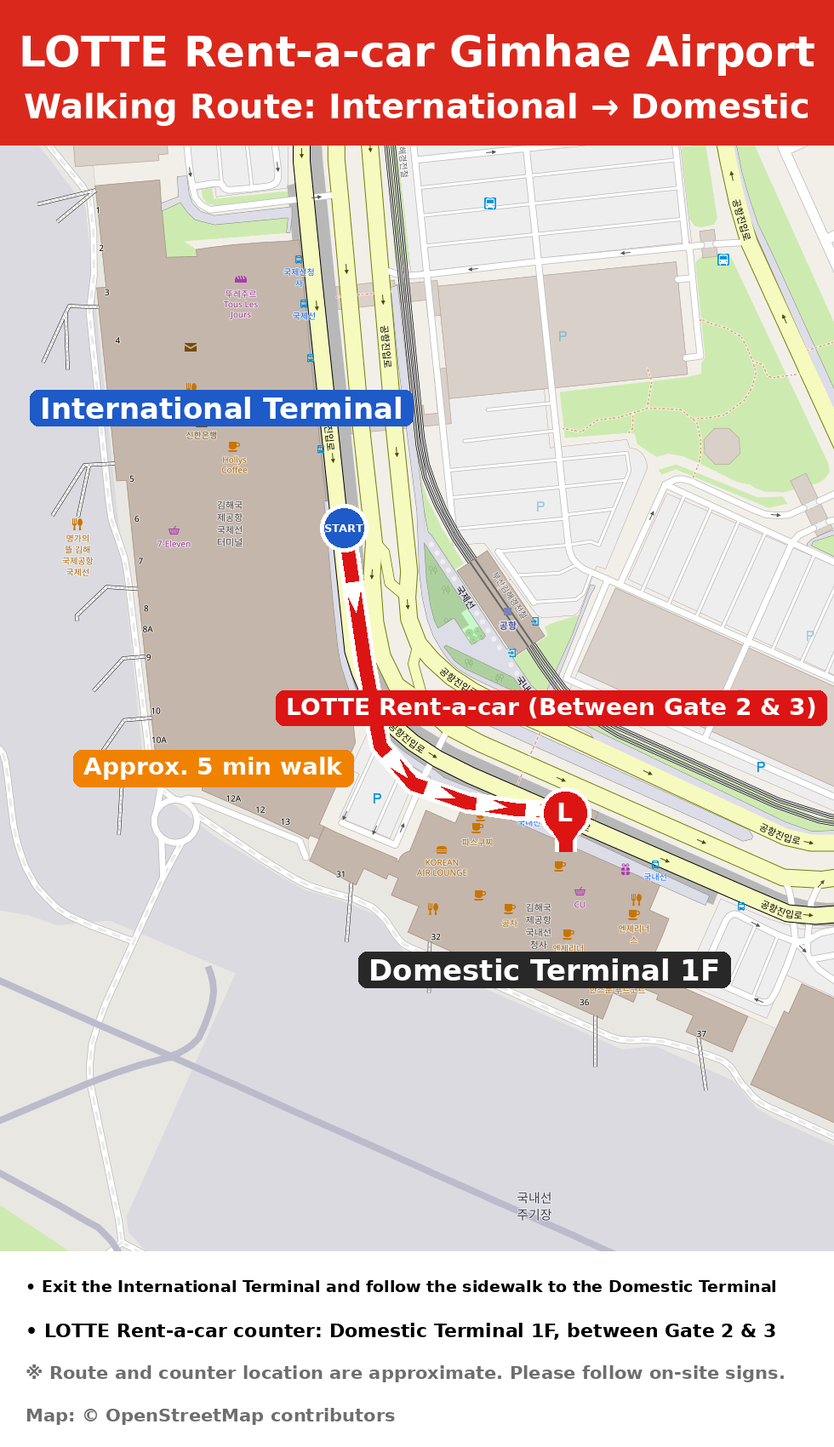
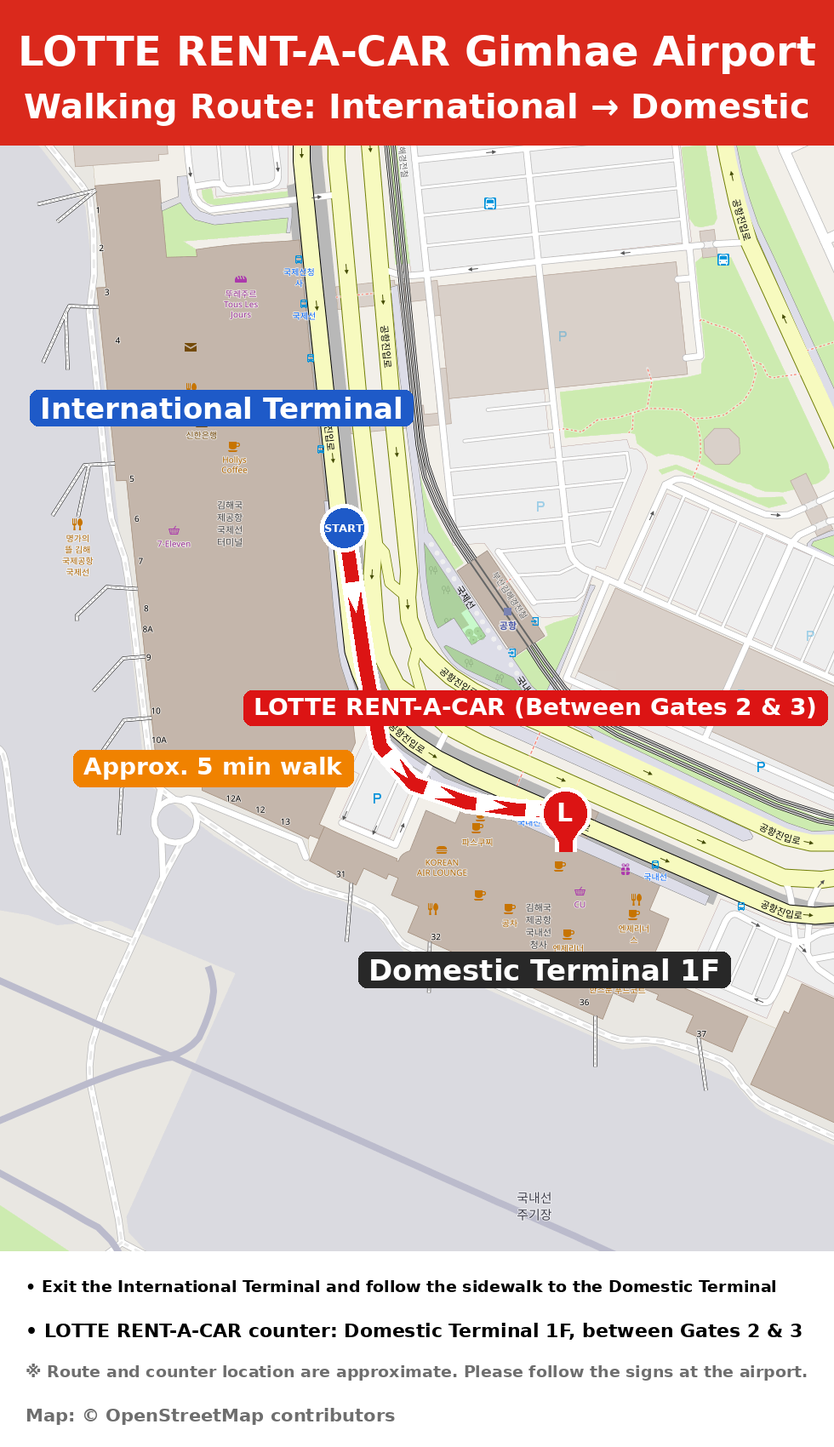
Native-level copy review for all 8 languages; update map labels

diff --git a/th/index.html b/th/index.html
@@ -2,11 +2,11 @@
 <header class="small"><a href="../"><img src="../logo.png" alt="LOTTE rent-a-car GIMHAE AIRPORT"></a></header>
 <nav class="lang"><a href="../en/">English</a><a href="../ko/">한국어</a><a href="../ja/">日本語</a><a href="../zh-CN/">简体中文</a><a href="../zh-TW/">繁體中文</a><a href="../th/" class=on>ภาษาไทย</a><a href="../vi/">Tiếng Việt</a><a href="../ms/">Bahasa Melayu</a></nav><main>
 <h1 class="title">คู่มือรับรถ ท่าอากาศยานกิมแฮ</h1><div class="sub">สาขาท่าอากาศยานกิมแฮ · ข้อมูลก่อนเช่ารถ</div>
-<div class="map"><img src="../map-th.png" alt="เส้นทางเดินจากอาคารระหว่างประเทศไปยังเคาน์เตอร์"></div>
-<section class="card"><h2><span class="num">1</span>จุดรับรถ</h2><p><b>อาคารผู้โดยสารภายในประเทศ ชั้น 1 (ขาเข้า)</b><br>เคาน์เตอร์อยู่ระหว่าง<b>ประตู 2 และประตู 3</b><br><b>เดินประมาณ 5 นาที</b>จากอาคารผู้โดยสารระหว่างประเทศ</p></section>
-<section class="card"><h2><span class="num">2</span>เอกสารที่ต้องนำมา (ฉบับจริงเท่านั้น)</h2><ul><li><b>หนังสือเดินทาง</b> – สำหรับยืนยันตัวตน</li><li><b>ใบอนุญาตขับรถระหว่างประเทศ (ใบขับขี่สากล/IDP) ที่ยังไม่หมดอายุ</b> – โปรดตรวจสอบวันหมดอายุและประเภทรถ:<ul><li>ประเภท B: รถที่มีที่นั่งผู้โดยสารไม่เกิน 8 ที่</li><li>ประเภท D: รถที่มีที่นั่งผู้โดยสารมากกว่า 8 ที่</li></ul></li></ul></section>
-<section class="card"><h2><span class="num">3</span>ก่อนเดินทางมาถึง</h2><p>โปรดแจ้ง<b>หมายเลขเที่ยวบินขาเข้า</b> (เช่น KE1234) โดยตอบกลับอีเมลของเรา</p></section>
-<section class="card fast"><h2>⚡ บริการรับรถด่วน</h2><p>ส่งสำเนาสแกน<b>หนังสือเดินทางและใบขับขี่สากล</b>มาล่วงหน้า เพื่อการรับรถที่รวดเร็วและสะดวก!</p></section>
+<div class="map"><img src="../map-th.png" alt="เส้นทางเดินจากอาคารผู้โดยสารระหว่างประเทศไปยังเคาน์เตอร์"></div>
+<section class="card"><h2><span class="num">1</span>จุดรับรถ</h2><p><b>อาคารผู้โดยสารภายในประเทศ ชั้น 1 (ชั้นผู้โดยสารขาเข้า)</b><br>เคาน์เตอร์อยู่ระหว่าง<b>ประตู 2 และประตู 3</b><br><b>เดินประมาณ 5 นาที</b>จากอาคารผู้โดยสารระหว่างประเทศ</p></section>
+<section class="card"><h2><span class="num">2</span>เอกสารที่ต้องนำมา (ฉบับจริงเท่านั้น)</h2><ul><li><b>หนังสือเดินทาง</b> – สำหรับยืนยันตัวตน</li><li><b>ใบขับขี่สากล (IDP) ที่ยังไม่หมดอายุ</b> – โปรดตรวจสอบวันหมดอายุและประเภทรถที่ได้รับอนุญาตให้ขับ:<ul><li>ประเภท B: รถที่มีที่นั่งไม่เกิน 8 ที่ (ไม่รวมที่นั่งคนขับ)</li><li>ประเภท D: รถที่มีที่นั่งมากกว่า 8 ที่ (ไม่รวมที่นั่งคนขับ)</li></ul></li></ul></section>
+<section class="card"><h2><span class="num">3</span>ก่อนเดินทางมาถึง</h2><p>โปรดตอบกลับอีเมลนี้เพื่อแจ้ง<b>หมายเลขเที่ยวบินขาเข้า</b> (เช่น KE1234)</p></section>
+<section class="card fast"><h2>⚡ บริการรับรถแบบรวดเร็ว</h2><p>ส่งสำเนาสแกน<b>หนังสือเดินทางและใบขับขี่สากล</b>มาล่วงหน้า เพื่อการรับรถที่รวดเร็วและสะดวก!</p></section>
 <section class="card contact"><div class="ct">สอบถาม: สาขาท่าอากาศยานกิมแฮ</div><a class="btn" href="mailto:534046@lotte.net?subject=LOTTE%20RENT-A-CAR%20Reservation%20Inquiry">✉ 534046@lotte.net</a>
 <a class="btn sub2" href="https://lotte-rentcar-chat.onrender.com/chat?lang=th" target="_blank" rel="noopener">💬 แชทสอบถาม</a><div class="hours">เวลาให้บริการ 08:00–21:00 น. (เวลาเกาหลี)</div></section>
-</main><footer><div class="fm">อีเมลสาขาท่าอากาศยานกิมแฮ: <a href="mailto:534046@lotte.net">534046@lotte.net</a></div>แผนที่แสดงตำแหน่งโดยประมาณ<br>Map data © OpenStreetMap contributors</footer></div></body></html>
+</main><footer><div class="fm">อีเมลสาขาท่าอากาศยานกิมแฮ: <a href="mailto:534046@lotte.net">534046@lotte.net</a></div>แผนที่ใช้เพื่อประกอบเท่านั้น กรุณาสังเกตป้ายบอกทางในสนามบิน<br>Map data © OpenStreetMap contributors</footer></div></body></html>

diff --git a/ja/index.html b/ja/index.html
@@ -1,12 +1,12 @@
-<!doctype html><html lang="ja"><head><meta charset="utf-8"><meta name="viewport" content="width=device-width,viewport-fit=cover,initial-scale=1"><meta name="theme-color" content="#da291c"><title>金海空港 ピックアップ案内 · LOTTE RENT-A-CAR</title><link rel="preconnect" href="https://cdn.jsdelivr.net"><link rel="stylesheet" href="https://cdn.jsdelivr.net/gh/orioncactus/pretendard@v1.3.9/dist/web/variable/pretendardvariable-dynamic-subset.min.css"><link rel="stylesheet" href="https://fonts.googleapis.com/css2?family=Noto+Sans+SC:wght@400;700&family=Noto+Sans+TC:wght@400;700&family=Noto+Sans+Thai:wght@400;700&display=swap"><link rel="stylesheet" href="../style.css?v=3"></head><body><div class="shell">
+<!doctype html><html lang="ja"><head><meta charset="utf-8"><meta name="viewport" content="width=device-width,viewport-fit=cover,initial-scale=1"><meta name="theme-color" content="#da291c"><title>金海空港 レンタカー受取のご案内 · LOTTE RENT-A-CAR</title><link rel="preconnect" href="https://cdn.jsdelivr.net"><link rel="stylesheet" href="https://cdn.jsdelivr.net/gh/orioncactus/pretendard@v1.3.9/dist/web/variable/pretendardvariable-dynamic-subset.min.css"><link rel="stylesheet" href="https://fonts.googleapis.com/css2?family=Noto+Sans+SC:wght@400;700&family=Noto+Sans+TC:wght@400;700&family=Noto+Sans+Thai:wght@400;700&display=swap"><link rel="stylesheet" href="../style.css?v=3"></head><body><div class="shell">
 <header class="small"><a href="../"><img src="../logo.png" alt="LOTTE rent-a-car GIMHAE AIRPORT"></a></header>
 <nav class="lang"><a href="../en/">English</a><a href="../ko/">한국어</a><a href="../ja/" class=on>日本語</a><a href="../zh-CN/">简体中文</a><a href="../zh-TW/">繁體中文</a><a href="../th/">ภาษาไทย</a><a href="../vi/">Tiếng Việt</a><a href="../ms/">Bahasa Melayu</a></nav><main>
-<h1 class="title">金海空港 ピックアップ案内</h1><div class="sub">金海空港営業所 · ご利用前のご案内</div>
+<h1 class="title">金海空港 レンタカー受取のご案内</h1><div class="sub">金海空港営業所 · ご利用前のご案内</div>
 <div class="map"><img src="../map-ja.png" alt="国際線ターミナルからカウンターまでの徒歩ルート"></div>
-<section class="card"><h2><span class="num">1</span>受取場所</h2><p><b>国内線ターミナル1階（到着ロビー）</b><br>カウンターは<b>2番ゲートと3番ゲートの間</b>にございます。<br>国際線ターミナルから<b>徒歩約5分</b>です。</p></section>
-<section class="card"><h2><span class="num">2</span>お持ちいただくもの（原本のみ）</h2><ul><li><b>パスポート</b> – 本人確認用</li><li><b>有効な国際運転免許証（IDP）</b> – 有効期限と車種区分をご確認ください：<ul><li>B区分：運転席を除き8人乗り以下の車両</li><li>D区分：運転席を除き8人乗りを超える車両</li></ul></li></ul></section>
-<section class="card"><h2><span class="num">3</span>ご到着前に</h2><p>メールへのご返信で<b>到着便名</b>（例：KE1234）をお知らせください。</p></section>
-<section class="card fast"><h2>⚡ スピード貸渡サービス</h2><p><b>パスポートと国際運転免許証</b>のスキャンデータを事前にお送りいただくと、当日の手続きがスムーズになります。</p></section>
+<section class="card"><h2><span class="num">1</span>お受け取り場所</h2><p><b>国内線ターミナル1階（到着ロビー）</b><br>カウンターは<b>2番ゲートと3番ゲートの間</b>にあります。<br>国際線ターミナルから<b>徒歩約5分</b>です。</p></section>
+<section class="card"><h2><span class="num">2</span>お持ちいただくもの（原本のみ）</h2><ul><li><b>パスポート</b> – 本人確認用</li><li><b>有効な国際運転免許証（IDP）</b> – 有効期限と車種区分をご確認ください：<ul><li>B区分：運転席を除く座席数が8席以下の車両</li><li>D区分：運転席を除く座席数が8席を超える車両</li></ul></li></ul></section>
+<section class="card"><h2><span class="num">3</span>ご到着前に</h2><p>本メールにご返信のうえ、<b>到着便名</b>（例：KE1234）をお知らせください。</p></section>
+<section class="card fast"><h2>⚡ スピード受付サービス</h2><p><b>パスポートと国際運転免許証</b>のスキャンデータを事前にお送りいただくと、当日の手続きがスムーズになります。</p></section>
 <section class="card contact"><div class="ct">お問い合わせ：金海空港営業所</div><a class="btn" href="mailto:534046@lotte.net?subject=LOTTE%20RENT-A-CAR%20Reservation%20Inquiry">✉ 534046@lotte.net</a>
 <a class="btn sub2" href="https://lotte-rentcar-chat.onrender.com/chat?lang=ja" target="_blank" rel="noopener">💬 チャットで相談</a><div class="hours">受付時間 8:00〜21:00（韓国時間）</div></section>
-</main><footer><div class="fm">金海空港営業所 メール: <a href="mailto:534046@lotte.net">534046@lotte.net</a></div>地図はおおよその位置で、カウンター位置は目安です。<br>Map data © OpenStreetMap contributors</footer></div></body></html>
+</main><footer><div class="fm">金海空港営業所 メール: <a href="mailto:534046@lotte.net">534046@lotte.net</a></div>地図は目安です。現地の案内表示もあわせてご確認ください。<br>Map data © OpenStreetMap contributors</footer></div></body></html>

diff --git a/vi/index.html b/vi/index.html
@@ -1,12 +1,12 @@
 <!doctype html><html lang="vi"><head><meta charset="utf-8"><meta name="viewport" content="width=device-width,viewport-fit=cover,initial-scale=1"><meta name="theme-color" content="#da291c"><title>Hướng dẫn nhận xe tại Sân bay Gimhae · LOTTE RENT-A-CAR</title><link rel="preconnect" href="https://cdn.jsdelivr.net"><link rel="stylesheet" href="https://cdn.jsdelivr.net/gh/orioncactus/pretendard@v1.3.9/dist/web/variable/pretendardvariable-dynamic-subset.min.css"><link rel="stylesheet" href="https://fonts.googleapis.com/css2?family=Noto+Sans+SC:wght@400;700&family=Noto+Sans+TC:wght@400;700&family=Noto+Sans+Thai:wght@400;700&display=swap"><link rel="stylesheet" href="../style.css?v=3"></head><body><div class="shell">
 <header class="small"><a href="../"><img src="../logo.png" alt="LOTTE rent-a-car GIMHAE AIRPORT"></a></header>
 <nav class="lang"><a href="../en/">English</a><a href="../ko/">한국어</a><a href="../ja/">日本語</a><a href="../zh-CN/">简体中文</a><a href="../zh-TW/">繁體中文</a><a href="../th/">ภาษาไทย</a><a href="../vi/" class=on>Tiếng Việt</a><a href="../ms/">Bahasa Melayu</a></nav><main>
-<h1 class="title">Hướng dẫn nhận xe tại Sân bay Gimhae</h1><div class="sub">Văn phòng Sân bay Gimhae · Thông tin trước khi thuê</div>
+<h1 class="title">Hướng dẫn nhận xe tại Sân bay Gimhae</h1><div class="sub">Chi nhánh Sân bay Gimhae · Thông tin trước khi thuê xe</div>
 <div class="map"><img src="../map-vi.png" alt="Lộ trình đi bộ từ Nhà ga Quốc tế đến quầy"></div>
-<section class="card"><h2><span class="num">1</span>Địa điểm nhận xe</h2><p><b>Nhà ga Quốc nội, Tầng 1 (Khu đến)</b><br>Quầy nằm giữa <b>Cửa 2 và Cửa 3</b>.<br>Cách Nhà ga Quốc tế khoảng <b>5 phút đi bộ</b>.</p></section>
-<section class="card"><h2><span class="num">2</span>Giấy tờ cần mang (chỉ bản gốc)</h2><ul><li><b>Hộ chiếu</b> – để xác minh danh tính</li><li><b>Giấy phép lái xe quốc tế (IDP) còn hiệu lực</b> – vui lòng kiểm tra hạn sử dụng và hạng xe:<ul><li>Hạng B: xe có tối đa 8 ghế hành khách</li><li>Hạng D: xe có hơn 8 ghế hành khách</li></ul></li></ul></section>
-<section class="card"><h2><span class="num">3</span>Trước khi đến</h2><p>Vui lòng cho chúng tôi biết <b>số hiệu chuyến bay đến</b> (ví dụ: KE1234) bằng cách trả lời email.</p></section>
-<section class="card fast"><h2>⚡ DỊCH VỤ NHẬN XE NHANH</h2><p>Gửi trước bản scan <b>Hộ chiếu &amp; Giấy phép lái xe quốc tế</b> để nhận xe nhanh chóng và dễ dàng!</p></section>
-<section class="card contact"><div class="ct">Liên hệ: Văn phòng Sân bay Gimhae</div><a class="btn" href="mailto:534046@lotte.net?subject=LOTTE%20RENT-A-CAR%20Reservation%20Inquiry">✉ 534046@lotte.net</a>
+<section class="card"><h2><span class="num">1</span>Địa điểm nhận xe</h2><p><b>Nhà ga Quốc nội, Tầng 1 (Sảnh đến)</b><br>Quầy nằm giữa <b>Cửa 2 và Cửa 3</b>.<br>Cách Nhà ga Quốc tế khoảng <b>5 phút đi bộ</b>.</p></section>
+<section class="card"><h2><span class="num">2</span>Giấy tờ cần mang (chỉ bản gốc)</h2><ul><li><b>Hộ chiếu</b> – để xác minh danh tính</li><li><b>Giấy phép lái xe quốc tế (IDP) còn hiệu lực</b> – vui lòng kiểm tra thời hạn hiệu lực và hạng xe được phép lái:<ul><li>Hạng B: xe có tối đa 8 chỗ ngồi (không tính ghế lái)</li><li>Hạng D: xe có trên 8 chỗ ngồi (không tính ghế lái)</li></ul></li></ul></section>
+<section class="card"><h2><span class="num">3</span>Trước khi đến</h2><p>Vui lòng phản hồi email này để cho chúng tôi biết <b>số hiệu chuyến bay đến</b> (ví dụ: KE1234).</p></section>
+<section class="card fast"><h2>⚡ Dịch vụ nhận xe nhanh</h2><p>Gửi trước bản scan <b>hộ chiếu và giấy phép lái xe quốc tế</b> để nhận xe nhanh chóng và dễ dàng!</p></section>
+<section class="card contact"><div class="ct">Liên hệ: Chi nhánh Sân bay Gimhae</div><a class="btn" href="mailto:534046@lotte.net?subject=LOTTE%20RENT-A-CAR%20Reservation%20Inquiry">✉ 534046@lotte.net</a>
 <a class="btn sub2" href="https://lotte-rentcar-chat.onrender.com/chat?lang=vi" target="_blank" rel="noopener">💬 Tư vấn qua chat</a><div class="hours">Giờ hỗ trợ: 08:00–21:00 (giờ Hàn Quốc)</div></section>
-</main><footer><div class="fm">Email Văn phòng Sân bay Gimhae: <a href="mailto:534046@lotte.net">534046@lotte.net</a></div>Bản đồ và vị trí quầy chỉ mang tính tham khảo.<br>Map data © OpenStreetMap contributors</footer></div></body></html>
+</main><footer><div class="fm">Email Chi nhánh Sân bay Gimhae: <a href="mailto:534046@lotte.net">534046@lotte.net</a></div>Bản đồ chỉ mang tính tham khảo. Vui lòng đi theo biển chỉ dẫn tại sân bay.<br>Map data © OpenStreetMap contributors</footer></div></body></html>

diff --git a/ms/index.html b/ms/index.html
@@ -1,12 +1,12 @@
 <!doctype html><html lang="ms"><head><meta charset="utf-8"><meta name="viewport" content="width=device-width,viewport-fit=cover,initial-scale=1"><meta name="theme-color" content="#da291c"><title>Panduan Ambil Kereta Lapangan Terbang Gimhae · LOTTE RENT-A-CAR</title><link rel="preconnect" href="https://cdn.jsdelivr.net"><link rel="stylesheet" href="https://cdn.jsdelivr.net/gh/orioncactus/pretendard@v1.3.9/dist/web/variable/pretendardvariable-dynamic-subset.min.css"><link rel="stylesheet" href="https://fonts.googleapis.com/css2?family=Noto+Sans+SC:wght@400;700&family=Noto+Sans+TC:wght@400;700&family=Noto+Sans+Thai:wght@400;700&display=swap"><link rel="stylesheet" href="../style.css?v=3"></head><body><div class="shell">
 <header class="small"><a href="../"><img src="../logo.png" alt="LOTTE rent-a-car GIMHAE AIRPORT"></a></header>
 <nav class="lang"><a href="../en/">English</a><a href="../ko/">한국어</a><a href="../ja/">日本語</a><a href="../zh-CN/">简体中文</a><a href="../zh-TW/">繁體中文</a><a href="../th/">ภาษาไทย</a><a href="../vi/">Tiếng Việt</a><a href="../ms/" class=on>Bahasa Melayu</a></nav><main>
-<h1 class="title">Panduan Ambil Kereta Lapangan Terbang Gimhae</h1><div class="sub">Pejabat Lapangan Terbang Gimhae · Maklumat sebelum sewa</div>
+<h1 class="title">Panduan Ambil Kereta Lapangan Terbang Gimhae</h1><div class="sub">Cawangan Lapangan Terbang Gimhae · Maklumat sebelum sewa</div>
 <div class="map"><img src="../map-ms.png" alt="Laluan berjalan kaki dari Terminal Antarabangsa ke kaunter"></div>
 <section class="card"><h2><span class="num">1</span>Lokasi Ambil Kereta</h2><p><b>Terminal Domestik, Aras 1 (Balai Ketibaan)</b><br>Kaunter kami terletak di antara <b>Pintu 2 dan Pintu 3</b>.<br>Kira-kira <b>5 minit berjalan kaki</b> dari Terminal Antarabangsa.</p></section>
-<section class="card"><h2><span class="num">2</span>Dokumen Dibawa (Asal sahaja)</h2><ul><li><b>Pasport</b> – untuk pengenalan diri</li><li><b>Permit Memandu Antarabangsa (IDP) yang sah</b> – sila semak tarikh luput dan kategori kenderaan:<ul><li>Kategori B: kenderaan sehingga 8 tempat duduk penumpang</li><li>Kategori D: kenderaan lebih daripada 8 tempat duduk penumpang</li></ul></li></ul></section>
+<section class="card"><h2><span class="num">2</span>Dokumen yang Perlu Dibawa (Asal Sahaja)</h2><ul><li><b>Pasport</b> – untuk pengenalan diri</li><li><b>Permit Memandu Antarabangsa (IDP) yang sah</b> – sila semak tarikh luput dan kategori kenderaan:<ul><li>Kategori B: kenderaan dengan tidak lebih daripada 8 tempat duduk (tidak termasuk tempat duduk pemandu)</li><li>Kategori D: kenderaan dengan lebih daripada 8 tempat duduk (tidak termasuk tempat duduk pemandu)</li></ul></li></ul></section>
 <section class="card"><h2><span class="num">3</span>Sebelum Tiba</h2><p>Sila maklumkan <b>nombor penerbangan ketibaan</b> anda (cth. KE1234) dengan membalas e-mel kami.</p></section>
-<section class="card fast"><h2>⚡ PERKHIDMATAN AMBIL PANTAS</h2><p>Hantar salinan imbasan <b>Pasport &amp; Permit Memandu Antarabangsa</b> lebih awal untuk sewaan yang cepat dan mudah!</p></section>
-<section class="card contact"><div class="ct">Pertanyaan: Pejabat Lapangan Terbang Gimhae</div><a class="btn" href="mailto:534046@lotte.net?subject=LOTTE%20RENT-A-CAR%20Reservation%20Inquiry">✉ 534046@lotte.net</a>
+<section class="card fast"><h2>⚡ Perkhidmatan Ambil Kereta Pantas</h2><p>Hantar salinan imbasan <b>pasport dan Permit Memandu Antarabangsa</b> lebih awal untuk urusan ambil kereta yang cepat dan mudah!</p></section>
+<section class="card contact"><div class="ct">Pertanyaan: Cawangan Lapangan Terbang Gimhae</div><a class="btn" href="mailto:534046@lotte.net?subject=LOTTE%20RENT-A-CAR%20Reservation%20Inquiry">✉ 534046@lotte.net</a>
 <a class="btn sub2" href="https://lotte-rentcar-chat.onrender.com/chat?lang=ms" target="_blank" rel="noopener">💬 Sembang dengan Kami</a><div class="hours">Waktu operasi: 08:00–21:00 (waktu Korea)</div></section>
-</main><footer><div class="fm">E-mel Pejabat Lapangan Terbang Gimhae: <a href="mailto:534046@lotte.net">534046@lotte.net</a></div>Peta adalah anggaran sahaja.<br>Map data © OpenStreetMap contributors</footer></div></body></html>
+</main><footer><div class="fm">E-mel Cawangan Lapangan Terbang Gimhae: <a href="mailto:534046@lotte.net">534046@lotte.net</a></div>Peta adalah sebagai rujukan sahaja. Sila ikut papan tanda di lapangan terbang.<br>Map data © OpenStreetMap contributors</footer></div></body></html>

diff --git a/en/index.html b/en/index.html
@@ -1,12 +1,12 @@
 <!doctype html><html lang="en"><head><meta charset="utf-8"><meta name="viewport" content="width=device-width,viewport-fit=cover,initial-scale=1"><meta name="theme-color" content="#da291c"><title>Gimhae Airport Pick-up Guide · LOTTE RENT-A-CAR</title><link rel="preconnect" href="https://cdn.jsdelivr.net"><link rel="stylesheet" href="https://cdn.jsdelivr.net/gh/orioncactus/pretendard@v1.3.9/dist/web/variable/pretendardvariable-dynamic-subset.min.css"><link rel="stylesheet" href="https://fonts.googleapis.com/css2?family=Noto+Sans+SC:wght@400;700&family=Noto+Sans+TC:wght@400;700&family=Noto+Sans+Thai:wght@400;700&display=swap"><link rel="stylesheet" href="../style.css?v=3"></head><body><div class="shell">
 <header class="small"><a href="../"><img src="../logo.png" alt="LOTTE rent-a-car GIMHAE AIRPORT"></a></header>
 <nav class="lang"><a href="../en/" class=on>English</a><a href="../ko/">한국어</a><a href="../ja/">日本語</a><a href="../zh-CN/">简体中文</a><a href="../zh-TW/">繁體中文</a><a href="../th/">ภาษาไทย</a><a href="../vi/">Tiếng Việt</a><a href="../ms/">Bahasa Melayu</a></nav><main>
-<h1 class="title">Gimhae Airport Pick-up Guide</h1><div class="sub">Gimhae Airport Office · Pre-rental information</div>
+<h1 class="title">Gimhae Airport Pick-up Guide</h1><div class="sub">Gimhae Airport Branch · Before Your Rental</div>
 <div class="map"><img src="../map-en.png" alt="Walking route from the International Terminal to the counter"></div>
 <section class="card"><h2><span class="num">1</span>Pick-up Location</h2><p><b>Domestic Terminal 1F (Arrivals)</b><br>Our counter is located between <b>Gate 2 and Gate 3</b>.<br>About a <b>5-minute walk</b> from the International Terminal.</p></section>
-<section class="card"><h2><span class="num">2</span>What to Bring (Originals only)</h2><ul><li><b>Passport</b> – for identification</li><li><b>A valid International Driving Permit (IDP)</b> – please check the expiry date and vehicle category:<ul><li>Category B: vehicles with up to 8 passenger seats</li><li>Category D: vehicles with more than 8 passenger seats</li></ul></li></ul></section>
+<section class="card"><h2><span class="num">2</span>What to Bring (Originals only)</h2><ul><li><b>Passport</b> – for identification</li><li><b>A valid International Driving Permit (IDP)</b> – please check its expiry date and that it covers the right vehicle category:<ul><li>Category B: vehicles with up to 8 seats, not counting the driver's seat</li><li>Category D: vehicles with more than 8 seats, not counting the driver's seat</li></ul></li></ul></section>
 <section class="card"><h2><span class="num">3</span>Before You Arrive</h2><p>Please tell us your <b>arrival flight number</b> (e.g., KE1234) by replying to our email.</p></section>
-<section class="card fast"><h2>⚡ FAST PICK-UP SERVICE</h2><p>Send us scanned copies of your <b>Passport &amp; International Driving Permit</b> in advance for a quick and easy rental!</p></section>
-<section class="card contact"><div class="ct">Questions? Contact the Gimhae Airport Office</div><a class="btn" href="mailto:534046@lotte.net?subject=LOTTE%20RENT-A-CAR%20Reservation%20Inquiry">✉ 534046@lotte.net</a>
+<section class="card fast"><h2>⚡ Fast Pick-up Service</h2><p>Send us scanned copies of your <b>passport and International Driving Permit</b> in advance for a quick and easy pick-up!</p></section>
+<section class="card contact"><div class="ct">Questions? Contact the Gimhae Airport Branch</div><a class="btn" href="mailto:534046@lotte.net?subject=LOTTE%20RENT-A-CAR%20Reservation%20Inquiry">✉ 534046@lotte.net</a>
 <a class="btn sub2" href="https://lotte-rentcar-chat.onrender.com/chat?lang=en" target="_blank" rel="noopener">💬 Chat with Us</a><div class="hours">Hours: 08:00–21:00 (KST)</div></section>
-</main><footer><div class="fm">Gimhae Airport office email: <a href="mailto:534046@lotte.net">534046@lotte.net</a></div>Map is approximate; the counter location is indicative.<br>Map data © OpenStreetMap contributors</footer></div></body></html>
+</main><footer><div class="fm">Gimhae Airport Branch email: <a href="mailto:534046@lotte.net">534046@lotte.net</a></div>The map is for reference only. Please follow the signs at the airport.<br>Map data © OpenStreetMap contributors</footer></div></body></html>

diff --git a/zh-TW/index.html b/zh-TW/index.html
@@ -4,9 +4,9 @@
 <h1 class="title">金海機場取車指南</h1><div class="sub">金海機場營業所 · 租車前須知</div>
 <div class="map"><img src="../map-zh-TW.png" alt="從國際線航廈到櫃檯的步行路線"></div>
 <section class="card"><h2><span class="num">1</span>取車地點</h2><p><b>國內線航廈1樓（抵達大廳）</b><br>櫃檯位於<b>2號門與3號門之間</b>。<br>從國際線航廈<b>步行約5分鐘</b>。</p></section>
-<section class="card"><h2><span class="num">2</span>需攜帶證件（僅限正本）</h2><ul><li><b>護照</b> – 用於身分確認</li><li><b>有效的國際駕照（國際駕駛執照，IDP）</b> – 請確認有效期限及車輛類別：<ul><li>B類：駕駛座以外不超過8個座位的車輛</li><li>D類：駕駛座以外超過8個座位的車輛</li></ul></li></ul></section>
-<section class="card"><h2><span class="num">3</span>抵達前</h2><p>請回覆郵件告知您的<b>抵達航班號碼</b>（例：KE1234）。</p></section>
+<section class="card"><h2><span class="num">2</span>所需證件（須攜帶正本）</h2><ul><li><b>護照</b> – 用於身分確認</li><li><b>有效的國際駕照（IDP）</b> – 請確認有效期限及准駕車種：<ul><li>B類：除駕駛座外，座位不超過8個的車輛</li><li>D類：除駕駛座外，座位超過8個的車輛</li></ul></li></ul></section>
+<section class="card"><h2><span class="num">3</span>抵達前</h2><p>請回覆此電子郵件，告知您的<b>抵達航班編號</b>（例：KE1234）。</p></section>
 <section class="card fast"><h2>⚡ 快速取車服務</h2><p>事先寄送<b>護照與國際駕照</b>掃描檔，即可快速便利地取車！</p></section>
 <section class="card contact"><div class="ct">諮詢：金海機場營業所</div><a class="btn" href="mailto:534046@lotte.net?subject=LOTTE%20RENT-A-CAR%20Reservation%20Inquiry">✉ 534046@lotte.net</a>
 <a class="btn sub2" href="https://lotte-rentcar-chat.onrender.com/chat?lang=zh-TW" target="_blank" rel="noopener">💬 線上聊天諮詢</a><div class="hours">服務時間 08:00–21:00（韓國時間）</div></section>
-</main><footer><div class="fm">金海機場營業所電子郵件: <a href="mailto:534046@lotte.net">534046@lotte.net</a></div>地圖位置僅供參考，櫃檯位置為大致示意。<br>Map data © OpenStreetMap contributors</footer></div></body></html>
+</main><footer><div class="fm">金海機場營業所電子郵件: <a href="mailto:534046@lotte.net">534046@lotte.net</a></div>地圖僅供參考，請以現場指示牌為準。<br>Map data © OpenStreetMap contributors</footer></div></body></html>

diff --git a/zh-CN/index.html b/zh-CN/index.html
@@ -4,9 +4,9 @@
 <h1 class="title">金海机场取车指南</h1><div class="sub">金海机场营业所 · 租车前须知</div>
 <div class="map"><img src="../map-zh-CN.png" alt="从国际航站楼到柜台的步行路线"></div>
 <section class="card"><h2><span class="num">1</span>取车地点</h2><p><b>国内航站楼1层（到达大厅）</b><br>柜台位于<b>2号门与3号门之间</b>。<br>从国际航站楼<b>步行约5分钟</b>。</p></section>
-<section class="card"><h2><span class="num">2</span>需携带证件（仅限原件）</h2><ul><li><b>护照</b> – 用于身份确认</li><li><b>有效的国际驾照（IDP）</b> – 请确认有效期及车辆类别：<ul><li>B类：驾驶座以外不超过8个座位的车辆</li><li>D类：驾驶座以外超过8个座位的车辆</li></ul></li></ul></section>
+<section class="card"><h2><span class="num">2</span>所需证件（须携带原件）</h2><ul><li><b>护照</b> – 用于身份确认</li><li><b>有效的国际驾照（IDP）</b> – 请确认有效期及准驾车型：<ul><li>B类：除驾驶座外，座位不超过8个的车辆</li><li>D类：除驾驶座外，座位超过8个的车辆</li></ul></li></ul></section>
 <section class="card"><h2><span class="num">3</span>到达前</h2><p>请回复邮件告知您的<b>到达航班号</b>（例：KE1234）。</p></section>
 <section class="card fast"><h2>⚡ 快速取车服务</h2><p>提前发送<b>护照和国际驾照</b>扫描件，即可快速便捷地取车！</p></section>
 <section class="card contact"><div class="ct">咨询：金海机场营业所</div><a class="btn" href="mailto:534046@lotte.net?subject=LOTTE%20RENT-A-CAR%20Reservation%20Inquiry">✉ 534046@lotte.net</a>
 <a class="btn sub2" href="https://lotte-rentcar-chat.onrender.com/chat?lang=zh-CN" target="_blank" rel="noopener">💬 在线聊天咨询</a><div class="hours">服务时间 08:00–21:00（韩国时间）</div></section>
-</main><footer><div class="fm">金海机场营业所邮箱: <a href="mailto:534046@lotte.net">534046@lotte.net</a></div>地图位置仅供参考，柜台位置为大致示意。<br>Map data © OpenStreetMap contributors</footer></div></body></html>
+</main><footer><div class="fm">金海机场营业所邮箱: <a href="mailto:534046@lotte.net">534046@lotte.net</a></div>地图仅供参考，请以现场指示牌为准。<br>Map data © OpenStreetMap contributors</footer></div></body></html>

diff --git a/ko/index.html b/ko/index.html
@@ -3,7 +3,7 @@
 <nav class="lang"><a href="../en/">English</a><a href="../ko/" class=on>한국어</a><a href="../ja/">日本語</a><a href="../zh-CN/">简体中文</a><a href="../zh-TW/">繁體中文</a><a href="../th/">ภาษาไทย</a><a href="../vi/">Tiếng Việt</a><a href="../ms/">Bahasa Melayu</a></nav><main>
 <h1 class="title">김해공항 픽업 안내</h1><div class="sub">김해공항영업소 · 대여 전 안내</div>
 <div class="map"><img src="../map-ko.png" alt="국제선 청사에서 카운터까지 도보 동선"></div>
-<section class="card"><h2><span class="num">1</span>픽업 위치</h2><p><b>국내선 청사 1층 도착층</b><br>카운터는 <b>2번 게이트와 3번 게이트 사이</b>에 있습니다.<br>국제선 청사에서 <b>도보 약 5분</b> 거리입니다.</p></section>
+<section class="card"><h2><span class="num">1</span>픽업 위치</h2><p><b>국내선 청사 1층 (도착층)</b><br>카운터는 <b>2번 게이트와 3번 게이트 사이</b>에 있습니다.<br>국제선 청사에서 <b>도보 약 5분</b> 거리입니다.</p></section>
 <section class="card"><h2><span class="num">2</span>준비물</h2><ul><li><b>운전면허증 실물</b>을 꼭 지참해 주세요.</li><li><b>모바일 운전면허증</b>(휴대전화 인증 면허증)도 사용 가능합니다.</li></ul></section>
 <section class="card contact"><div class="ct">문의: 김해공항영업소</div><a class="btn" href="mailto:534046@lotte.net?subject=LOTTE%20RENT-A-CAR%20Reservation%20Inquiry">✉ 534046@lotte.net</a>
 <a class="btn sub2" href="https://lotte-rentcar-chat.onrender.com/chat?lang=ko" target="_blank" rel="noopener">💬 채팅 상담</a><div class="hours">운영시간 오전 8시~오후 9시</div></section>

diff --git a/index.html b/index.html
@@ -14,4 +14,4 @@ footer{margin-top:auto}</style></head><body><div class="shell">
 <header><img src="logo.png" alt="LOTTE rent-a-car GIMHAE AIRPORT"></header><main class="center">
 <a class="back" href="https://handj1998-del.github.io/gimhae-app/" aria-label="Back"><svg width="16" height="16" viewBox="0 0 24 24" fill="none" stroke="currentColor" stroke-width="2.5" stroke-linecap="round"><path d="M15 18l-6-6 6-6"/></svg></a>
 <div class="sel"><b>언어를 선택해 주세요</b><span>Please select your language</span><span>请选择语言</span><span>言語を選択してください</span></div><div class="lgrid"><a class="btn" href="ko/"><span>한국어<small>Korean</small></span></a><a class="btn" href="en/"><span>English<small>영어</small></span></a><a class="btn" href="zh-TW/"><span>中文 繁體<small>Chinese (Trad.)</small></span></a><a class="btn" href="zh-CN/"><span>中文 简体<small>Chinese (Simp.)</small></span></a><a class="btn" href="ja/"><span>日本語<small>Japanese</small></span></a><a class="btn" href="th/"><span>ภาษาไทย<small>Thai</small></span></a><a class="btn" href="ms/"><span>Bahasa Melayu<small>Malay</small></span></a><a class="btn" href="vi/"><span>Tiếng Việt<small>Vietnamese</small></span></a></div></main>
-<footer><div class="fm">Gimhae Airport office email: <a href="mailto:534046@lotte.net">534046@lotte.net</a></div></footer></div></body></html>
+<footer><div class="fm">Gimhae Airport Branch email: <a href="mailto:534046@lotte.net">534046@lotte.net</a></div></footer></div></body></html>

diff --git a/build.py b/build.py
@@ -2,18 +2,18 @@
 import os,html
 L=[("en","English"),("ko","한국어"),("ja","日本語"),("zh-CN","简体中文"),("zh-TW","繁體中文"),("th","ภาษาไทย"),("vi","Tiếng Việt"),("ms","Bahasa Melayu")]
 T={
-"en":dict(t="Gimhae Airport Pick-up Guide",sub="Gimhae Airport Office · Pre-rental information",s1="Pick-up Location",p1="<b>Domestic Terminal 1F (Arrivals)</b><br>Our counter is located between <b>Gate 2 and Gate 3</b>.<br>About a <b>5-minute walk</b> from the International Terminal.",s2="What to Bring (Originals only)",pp="<b>Passport</b> – for identification",idp="<b>A valid International Driving Permit (IDP)</b> – please check the expiry date and vehicle category:",b="Category B: vehicles with up to 8 passenger seats",d="Category D: vehicles with more than 8 passenger seats",s3="Before You Arrive",p3="Please tell us your <b>arrival flight number</b> (e.g., KE1234) by replying to our email.",f="FAST PICK-UP SERVICE",fp="Send us scanned copies of your <b>Passport &amp; International Driving Permit</b> in advance for a quick and easy rental!",c="Questions? Contact the Gimhae Airport Office",n="Map is approximate; the counter location is indicative.",alt="Walking route from the International Terminal to the counter"),
-"ko":dict(t="김해공항 픽업 안내",sub="김해공항영업소 · 대여 전 안내",s1="픽업 위치",p1="<b>국내선 청사 1층 도착층</b><br>카운터는 <b>2번 게이트와 3번 게이트 사이</b>에 있습니다.<br>국제선 청사에서 <b>도보 약 5분</b> 거리입니다.",s2="준비물",dl="<b>운전면허증 실물</b>을 꼭 지참해 주세요.",mdl="<b>모바일 운전면허증</b>(휴대전화 인증 면허증)도 사용 가능합니다.",pp="<b>여권</b> – 신분 확인용",idp="<b>유효한 국제운전면허증(IDP)</b> – 유효기간과 차종 등급을 확인해 주세요:",b="B 등급: 운전석 제외 8인승 이하 차량",d="D 등급: 운전석 제외 8인승 초과 차량",s3="도착 전 안내",p3="이메일 회신으로 <b>도착 항공편 번호</b>(예: KE1234)를 알려 주세요.",f="빠른 배차 서비스",fp="<b>여권과 국제운전면허증</b> 스캔본을 미리 보내 주시면 빠르고 간편하게 대여하실 수 있습니다!",c="문의: 김해공항영업소",n="지도의 경로와 카운터 위치는 대략적인 표시입니다. 현장 안내 표지판을 함께 확인해 주세요.",alt="국제선 청사에서 카운터까지 도보 동선"),
-"ja":dict(t="金海空港 ピックアップ案内",sub="金海空港営業所 · ご利用前のご案内",s1="受取場所",p1="<b>国内線ターミナル1階（到着ロビー）</b><br>カウンターは<b>2番ゲートと3番ゲートの間</b>にございます。<br>国際線ターミナルから<b>徒歩約5分</b>です。",s2="お持ちいただくもの（原本のみ）",pp="<b>パスポート</b> – 本人確認用",idp="<b>有効な国際運転免許証（IDP）</b> – 有効期限と車種区分をご確認ください：",b="B区分：運転席を除き8人乗り以下の車両",d="D区分：運転席を除き8人乗りを超える車両",s3="ご到着前に",p3="メールへのご返信で<b>到着便名</b>（例：KE1234）をお知らせください。",f="スピード貸渡サービス",fp="<b>パスポートと国際運転免許証</b>のスキャンデータを事前にお送りいただくと、当日の手続きがスムーズになります。",c="お問い合わせ：金海空港営業所",n="地図はおおよその位置で、カウンター位置は目安です。",alt="国際線ターミナルからカウンターまでの徒歩ルート"),
-"zh-CN":dict(t="金海机场取车指南",sub="金海机场营业所 · 租车前须知",s1="取车地点",p1="<b>国内航站楼1层（到达大厅）</b><br>柜台位于<b>2号门与3号门之间</b>。<br>从国际航站楼<b>步行约5分钟</b>。",s2="需携带证件（仅限原件）",pp="<b>护照</b> – 用于身份确认",idp="<b>有效的国际驾照（IDP）</b> – 请确认有效期及车辆类别：",b="B类：驾驶座以外不超过8个座位的车辆",d="D类：驾驶座以外超过8个座位的车辆",s3="到达前",p3="请回复邮件告知您的<b>到达航班号</b>（例：KE1234）。",f="快速取车服务",fp="提前发送<b>护照和国际驾照</b>扫描件，即可快速便捷地取车！",c="咨询：金海机场营业所",n="地图位置仅供参考，柜台位置为大致示意。",alt="从国际航站楼到柜台的步行路线"),
-"zh-TW":dict(t="金海機場取車指南",sub="金海機場營業所 · 租車前須知",s1="取車地點",p1="<b>國內線航廈1樓（抵達大廳）</b><br>櫃檯位於<b>2號門與3號門之間</b>。<br>從國際線航廈<b>步行約5分鐘</b>。",s2="需攜帶證件（僅限正本）",pp="<b>護照</b> – 用於身分確認",idp="<b>有效的國際駕照（國際駕駛執照，IDP）</b> – 請確認有效期限及車輛類別：",b="B類：駕駛座以外不超過8個座位的車輛",d="D類：駕駛座以外超過8個座位的車輛",s3="抵達前",p3="請回覆郵件告知您的<b>抵達航班號碼</b>（例：KE1234）。",f="快速取車服務",fp="事先寄送<b>護照與國際駕照</b>掃描檔，即可快速便利地取車！",c="諮詢：金海機場營業所",n="地圖位置僅供參考，櫃檯位置為大致示意。",alt="從國際線航廈到櫃檯的步行路線"),
-"th":dict(t="คู่มือรับรถ ท่าอากาศยานกิมแฮ",sub="สาขาท่าอากาศยานกิมแฮ · ข้อมูลก่อนเช่ารถ",s1="จุดรับรถ",p1="<b>อาคารผู้โดยสารภายในประเทศ ชั้น 1 (ขาเข้า)</b><br>เคาน์เตอร์อยู่ระหว่าง<b>ประตู 2 และประตู 3</b><br><b>เดินประมาณ 5 นาที</b>จากอาคารผู้โดยสารระหว่างประเทศ",s2="เอกสารที่ต้องนำมา (ฉบับจริงเท่านั้น)",pp="<b>หนังสือเดินทาง</b> – สำหรับยืนยันตัวตน",idp="<b>ใบอนุญาตขับรถระหว่างประเทศ (ใบขับขี่สากล/IDP) ที่ยังไม่หมดอายุ</b> – โปรดตรวจสอบวันหมดอายุและประเภทรถ:",b="ประเภท B: รถที่มีที่นั่งผู้โดยสารไม่เกิน 8 ที่",d="ประเภท D: รถที่มีที่นั่งผู้โดยสารมากกว่า 8 ที่",s3="ก่อนเดินทางมาถึง",p3="โปรดแจ้ง<b>หมายเลขเที่ยวบินขาเข้า</b> (เช่น KE1234) โดยตอบกลับอีเมลของเรา",f="บริการรับรถด่วน",fp="ส่งสำเนาสแกน<b>หนังสือเดินทางและใบขับขี่สากล</b>มาล่วงหน้า เพื่อการรับรถที่รวดเร็วและสะดวก!",c="สอบถาม: สาขาท่าอากาศยานกิมแฮ",n="แผนที่แสดงตำแหน่งโดยประมาณ",alt="เส้นทางเดินจากอาคารระหว่างประเทศไปยังเคาน์เตอร์"),
-"vi":dict(t="Hướng dẫn nhận xe tại Sân bay Gimhae",sub="Văn phòng Sân bay Gimhae · Thông tin trước khi thuê",s1="Địa điểm nhận xe",p1="<b>Nhà ga Quốc nội, Tầng 1 (Khu đến)</b><br>Quầy nằm giữa <b>Cửa 2 và Cửa 3</b>.<br>Cách Nhà ga Quốc tế khoảng <b>5 phút đi bộ</b>.",s2="Giấy tờ cần mang (chỉ bản gốc)",pp="<b>Hộ chiếu</b> – để xác minh danh tính",idp="<b>Giấy phép lái xe quốc tế (IDP) còn hiệu lực</b> – vui lòng kiểm tra hạn sử dụng và hạng xe:",b="Hạng B: xe có tối đa 8 ghế hành khách",d="Hạng D: xe có hơn 8 ghế hành khách",s3="Trước khi đến",p3="Vui lòng cho chúng tôi biết <b>số hiệu chuyến bay đến</b> (ví dụ: KE1234) bằng cách trả lời email.",f="DỊCH VỤ NHẬN XE NHANH",fp="Gửi trước bản scan <b>Hộ chiếu &amp; Giấy phép lái xe quốc tế</b> để nhận xe nhanh chóng và dễ dàng!",c="Liên hệ: Văn phòng Sân bay Gimhae",n="Bản đồ và vị trí quầy chỉ mang tính tham khảo.",alt="Lộ trình đi bộ từ Nhà ga Quốc tế đến quầy"),
-"ms":dict(t="Panduan Ambil Kereta Lapangan Terbang Gimhae",sub="Pejabat Lapangan Terbang Gimhae · Maklumat sebelum sewa",s1="Lokasi Ambil Kereta",p1="<b>Terminal Domestik, Aras 1 (Balai Ketibaan)</b><br>Kaunter kami terletak di antara <b>Pintu 2 dan Pintu 3</b>.<br>Kira-kira <b>5 minit berjalan kaki</b> dari Terminal Antarabangsa.",s2="Dokumen Dibawa (Asal sahaja)",pp="<b>Pasport</b> – untuk pengenalan diri",idp="<b>Permit Memandu Antarabangsa (IDP) yang sah</b> – sila semak tarikh luput dan kategori kenderaan:",b="Kategori B: kenderaan sehingga 8 tempat duduk penumpang",d="Kategori D: kenderaan lebih daripada 8 tempat duduk penumpang",s3="Sebelum Tiba",p3="Sila maklumkan <b>nombor penerbangan ketibaan</b> anda (cth. KE1234) dengan membalas e-mel kami.",f="PERKHIDMATAN AMBIL PANTAS",fp="Hantar salinan imbasan <b>Pasport &amp; Permit Memandu Antarabangsa</b> lebih awal untuk sewaan yang cepat dan mudah!",c="Pertanyaan: Pejabat Lapangan Terbang Gimhae",n="Peta adalah anggaran sahaja.",alt="Laluan berjalan kaki dari Terminal Antarabangsa ke kaunter"),
+"en":dict(t="Gimhae Airport Pick-up Guide",sub="Gimhae Airport Branch · Before Your Rental",s1="Pick-up Location",p1="<b>Domestic Terminal 1F (Arrivals)</b><br>Our counter is located between <b>Gate 2 and Gate 3</b>.<br>About a <b>5-minute walk</b> from the International Terminal.",s2="What to Bring (Originals only)",pp="<b>Passport</b> – for identification",idp="<b>A valid International Driving Permit (IDP)</b> – please check its expiry date and that it covers the right vehicle category:",b="Category B: vehicles with up to 8 seats, not counting the driver's seat",d="Category D: vehicles with more than 8 seats, not counting the driver's seat",s3="Before You Arrive",p3="Please tell us your <b>arrival flight number</b> (e.g., KE1234) by replying to our email.",f="Fast Pick-up Service",fp="Send us scanned copies of your <b>passport and International Driving Permit</b> in advance for a quick and easy pick-up!",c="Questions? Contact the Gimhae Airport Branch",n="The map is for reference only. Please follow the signs at the airport.",alt="Walking route from the International Terminal to the counter"),
+"ko":dict(t="김해공항 픽업 안내",sub="김해공항영업소 · 대여 전 안내",s1="픽업 위치",p1="<b>국내선 청사 1층 (도착층)</b><br>카운터는 <b>2번 게이트와 3번 게이트 사이</b>에 있습니다.<br>국제선 청사에서 <b>도보 약 5분</b> 거리입니다.",s2="준비물",dl="<b>운전면허증 실물</b>을 꼭 지참해 주세요.",mdl="<b>모바일 운전면허증</b>(휴대전화 인증 면허증)도 사용 가능합니다.",pp="<b>여권</b> – 신분 확인용",idp="<b>유효한 국제운전면허증(IDP)</b> – 유효기간과 차종 등급을 확인해 주세요:",b="B 등급: 운전석을 제외한 좌석 8석 이하 차량",d="D 등급: 운전석을 제외한 좌석 8석 초과 차량",s3="도착 전 안내",p3="이메일 회신으로 <b>도착 항공편 번호</b>(예: KE1234)를 알려 주세요.",f="빠른 배차 서비스",fp="<b>여권과 국제운전면허증</b> 스캔본을 미리 보내 주시면 빠르고 간편하게 대여하실 수 있습니다!",c="문의: 김해공항영업소",n="지도의 경로와 카운터 위치는 대략적인 표시입니다. 현장 안내 표지판을 함께 확인해 주세요.",alt="국제선 청사에서 카운터까지 도보 동선"),
+"ja":dict(t="金海空港 レンタカー受取のご案内",sub="金海空港営業所 · ご利用前のご案内",s1="お受け取り場所",p1="<b>国内線ターミナル1階（到着ロビー）</b><br>カウンターは<b>2番ゲートと3番ゲートの間</b>にあります。<br>国際線ターミナルから<b>徒歩約5分</b>です。",s2="お持ちいただくもの（原本のみ）",pp="<b>パスポート</b> – 本人確認用",idp="<b>有効な国際運転免許証（IDP）</b> – 有効期限と車種区分をご確認ください：",b="B区分：運転席を除く座席数が8席以下の車両",d="D区分：運転席を除く座席数が8席を超える車両",s3="ご到着前に",p3="本メールにご返信のうえ、<b>到着便名</b>（例：KE1234）をお知らせください。",f="スピード受付サービス",fp="<b>パスポートと国際運転免許証</b>のスキャンデータを事前にお送りいただくと、当日の手続きがスムーズになります。",c="お問い合わせ：金海空港営業所",n="地図は目安です。現地の案内表示もあわせてご確認ください。",alt="国際線ターミナルからカウンターまでの徒歩ルート"),
+"zh-CN":dict(t="金海机场取车指南",sub="金海机场营业所 · 租车前须知",s1="取车地点",p1="<b>国内航站楼1层（到达大厅）</b><br>柜台位于<b>2号门与3号门之间</b>。<br>从国际航站楼<b>步行约5分钟</b>。",s2="所需证件（须携带原件）",pp="<b>护照</b> – 用于身份确认",idp="<b>有效的国际驾照（IDP）</b> – 请确认有效期及准驾车型：",b="B类：除驾驶座外，座位不超过8个的车辆",d="D类：除驾驶座外，座位超过8个的车辆",s3="到达前",p3="请回复邮件告知您的<b>到达航班号</b>（例：KE1234）。",f="快速取车服务",fp="提前发送<b>护照和国际驾照</b>扫描件，即可快速便捷地取车！",c="咨询：金海机场营业所",n="地图仅供参考，请以现场指示牌为准。",alt="从国际航站楼到柜台的步行路线"),
+"zh-TW":dict(t="金海機場取車指南",sub="金海機場營業所 · 租車前須知",s1="取車地點",p1="<b>國內線航廈1樓（抵達大廳）</b><br>櫃檯位於<b>2號門與3號門之間</b>。<br>從國際線航廈<b>步行約5分鐘</b>。",s2="所需證件（須攜帶正本）",pp="<b>護照</b> – 用於身分確認",idp="<b>有效的國際駕照（IDP）</b> – 請確認有效期限及准駕車種：",b="B類：除駕駛座外，座位不超過8個的車輛",d="D類：除駕駛座外，座位超過8個的車輛",s3="抵達前",p3="請回覆此電子郵件，告知您的<b>抵達航班編號</b>（例：KE1234）。",f="快速取車服務",fp="事先寄送<b>護照與國際駕照</b>掃描檔，即可快速便利地取車！",c="諮詢：金海機場營業所",n="地圖僅供參考，請以現場指示牌為準。",alt="從國際線航廈到櫃檯的步行路線"),
+"th":dict(t="คู่มือรับรถ ท่าอากาศยานกิมแฮ",sub="สาขาท่าอากาศยานกิมแฮ · ข้อมูลก่อนเช่ารถ",s1="จุดรับรถ",p1="<b>อาคารผู้โดยสารภายในประเทศ ชั้น 1 (ชั้นผู้โดยสารขาเข้า)</b><br>เคาน์เตอร์อยู่ระหว่าง<b>ประตู 2 และประตู 3</b><br><b>เดินประมาณ 5 นาที</b>จากอาคารผู้โดยสารระหว่างประเทศ",s2="เอกสารที่ต้องนำมา (ฉบับจริงเท่านั้น)",pp="<b>หนังสือเดินทาง</b> – สำหรับยืนยันตัวตน",idp="<b>ใบขับขี่สากล (IDP) ที่ยังไม่หมดอายุ</b> – โปรดตรวจสอบวันหมดอายุและประเภทรถที่ได้รับอนุญาตให้ขับ:",b="ประเภท B: รถที่มีที่นั่งไม่เกิน 8 ที่ (ไม่รวมที่นั่งคนขับ)",d="ประเภท D: รถที่มีที่นั่งมากกว่า 8 ที่ (ไม่รวมที่นั่งคนขับ)",s3="ก่อนเดินทางมาถึง",p3="โปรดตอบกลับอีเมลนี้เพื่อแจ้ง<b>หมายเลขเที่ยวบินขาเข้า</b> (เช่น KE1234)",f="บริการรับรถแบบรวดเร็ว",fp="ส่งสำเนาสแกน<b>หนังสือเดินทางและใบขับขี่สากล</b>มาล่วงหน้า เพื่อการรับรถที่รวดเร็วและสะดวก!",c="สอบถาม: สาขาท่าอากาศยานกิมแฮ",n="แผนที่ใช้เพื่อประกอบเท่านั้น กรุณาสังเกตป้ายบอกทางในสนามบิน",alt="เส้นทางเดินจากอาคารผู้โดยสารระหว่างประเทศไปยังเคาน์เตอร์"),
+"vi":dict(t="Hướng dẫn nhận xe tại Sân bay Gimhae",sub="Chi nhánh Sân bay Gimhae · Thông tin trước khi thuê xe",s1="Địa điểm nhận xe",p1="<b>Nhà ga Quốc nội, Tầng 1 (Sảnh đến)</b><br>Quầy nằm giữa <b>Cửa 2 và Cửa 3</b>.<br>Cách Nhà ga Quốc tế khoảng <b>5 phút đi bộ</b>.",s2="Giấy tờ cần mang (chỉ bản gốc)",pp="<b>Hộ chiếu</b> – để xác minh danh tính",idp="<b>Giấy phép lái xe quốc tế (IDP) còn hiệu lực</b> – vui lòng kiểm tra thời hạn hiệu lực và hạng xe được phép lái:",b="Hạng B: xe có tối đa 8 chỗ ngồi (không tính ghế lái)",d="Hạng D: xe có trên 8 chỗ ngồi (không tính ghế lái)",s3="Trước khi đến",p3="Vui lòng phản hồi email này để cho chúng tôi biết <b>số hiệu chuyến bay đến</b> (ví dụ: KE1234).",f="Dịch vụ nhận xe nhanh",fp="Gửi trước bản scan <b>hộ chiếu và giấy phép lái xe quốc tế</b> để nhận xe nhanh chóng và dễ dàng!",c="Liên hệ: Chi nhánh Sân bay Gimhae",n="Bản đồ chỉ mang tính tham khảo. Vui lòng đi theo biển chỉ dẫn tại sân bay.",alt="Lộ trình đi bộ từ Nhà ga Quốc tế đến quầy"),
+"ms":dict(t="Panduan Ambil Kereta Lapangan Terbang Gimhae",sub="Cawangan Lapangan Terbang Gimhae · Maklumat sebelum sewa",s1="Lokasi Ambil Kereta",p1="<b>Terminal Domestik, Aras 1 (Balai Ketibaan)</b><br>Kaunter kami terletak di antara <b>Pintu 2 dan Pintu 3</b>.<br>Kira-kira <b>5 minit berjalan kaki</b> dari Terminal Antarabangsa.",s2="Dokumen yang Perlu Dibawa (Asal Sahaja)",pp="<b>Pasport</b> – untuk pengenalan diri",idp="<b>Permit Memandu Antarabangsa (IDP) yang sah</b> – sila semak tarikh luput dan kategori kenderaan:",b="Kategori B: kenderaan dengan tidak lebih daripada 8 tempat duduk (tidak termasuk tempat duduk pemandu)",d="Kategori D: kenderaan dengan lebih daripada 8 tempat duduk (tidak termasuk tempat duduk pemandu)",s3="Sebelum Tiba",p3="Sila maklumkan <b>nombor penerbangan ketibaan</b> anda (cth. KE1234) dengan membalas e-mel kami.",f="Perkhidmatan Ambil Kereta Pantas",fp="Hantar salinan imbasan <b>pasport dan Permit Memandu Antarabangsa</b> lebih awal untuk urusan ambil kereta yang cepat dan mudah!",c="Pertanyaan: Cawangan Lapangan Terbang Gimhae",n="Peta adalah sebagai rujukan sahaja. Sila ikut papan tanda di lapangan terbang.",alt="Laluan berjalan kaki dari Terminal Antarabangsa ke kaunter"),
 }
 CHAT={'en': ('Chat with Us', 'Hours: 08:00–21:00 (KST)'), 'ko': ('채팅 상담', '운영시간 오전 8시~오후 9시'), 'ja': ('チャットで相談', '受付時間 8:00〜21:00（韓国時間）'), 'zh-CN': ('在线聊天咨询', '服务时间 08:00–21:00（韩国时间）'), 'zh-TW': ('線上聊天諮詢', '服務時間 08:00–21:00（韓國時間）'), 'th': ('แชทสอบถาม', 'เวลาให้บริการ 08:00–21:00 น. (เวลาเกาหลี)'), 'vi': ('Tư vấn qua chat', 'Giờ hỗ trợ: 08:00–21:00 (giờ Hàn Quốc)'), 'ms': ('Sembang dengan Kami', 'Waktu operasi: 08:00–21:00 (waktu Korea)')}
 CSS=open("style.css").read() if os.path.exists("style.css") else ""
-EM={'en': 'Gimhae Airport office email', 'ko': '김해공항영업소 이메일', 'ja': '金海空港営業所 メール', 'zh-CN': '金海机场营业所邮箱', 'zh-TW': '金海機場營業所電子郵件', 'th': 'อีเมลสาขาท่าอากาศยานกิมแฮ', 'vi': 'Email Văn phòng Sân bay Gimhae', 'ms': 'E-mel Pejabat Lapangan Terbang Gimhae'}
+EM={'en': 'Gimhae Airport Branch email', 'ko': '김해공항영업소 이메일', 'ja': '金海空港営業所 メール', 'zh-CN': '金海机场营业所邮箱', 'zh-TW': '金海機場營業所電子郵件', 'th': 'อีเมลสาขาท่าอากาศยานกิมแฮ', 'vi': 'Email Chi nhánh Sân bay Gimhae', 'ms': 'E-mel Cawangan Lapangan Terbang Gimhae'}
 MAIL="mailto:534046@lotte.net?subject=LOTTE%20RENT-A-CAR%20Reservation%20Inquiry"
 def page(code):
   x=T[code]
@@ -57,7 +57,7 @@ def root():
 <header><img src="logo.png" alt="LOTTE rent-a-car GIMHAE AIRPORT"></header><main class="center">
 <a class="back" href="https://handj1998-del.github.io/gimhae-app/" aria-label="Back">{ARR}</a>
 <div class="sel"><b>언어를 선택해 주세요</b><span>Please select your language</span><span>请选择语言</span><span>言語を選択してください</span></div><div class="lgrid">{btns}</div></main>
-<footer><div class="fm">Gimhae Airport office email: <a href="mailto:534046@lotte.net">534046@lotte.net</a></div></footer></div></body></html>'''
+<footer><div class="fm">Gimhae Airport Branch email: <a href="mailto:534046@lotte.net">534046@lotte.net</a></div></footer></div></body></html>'''
 for c,_ in L:
   os.makedirs(c,exist_ok=True); open(f"{c}/index.html","w").write(page(c))
 open("index.html","w").write(root())
